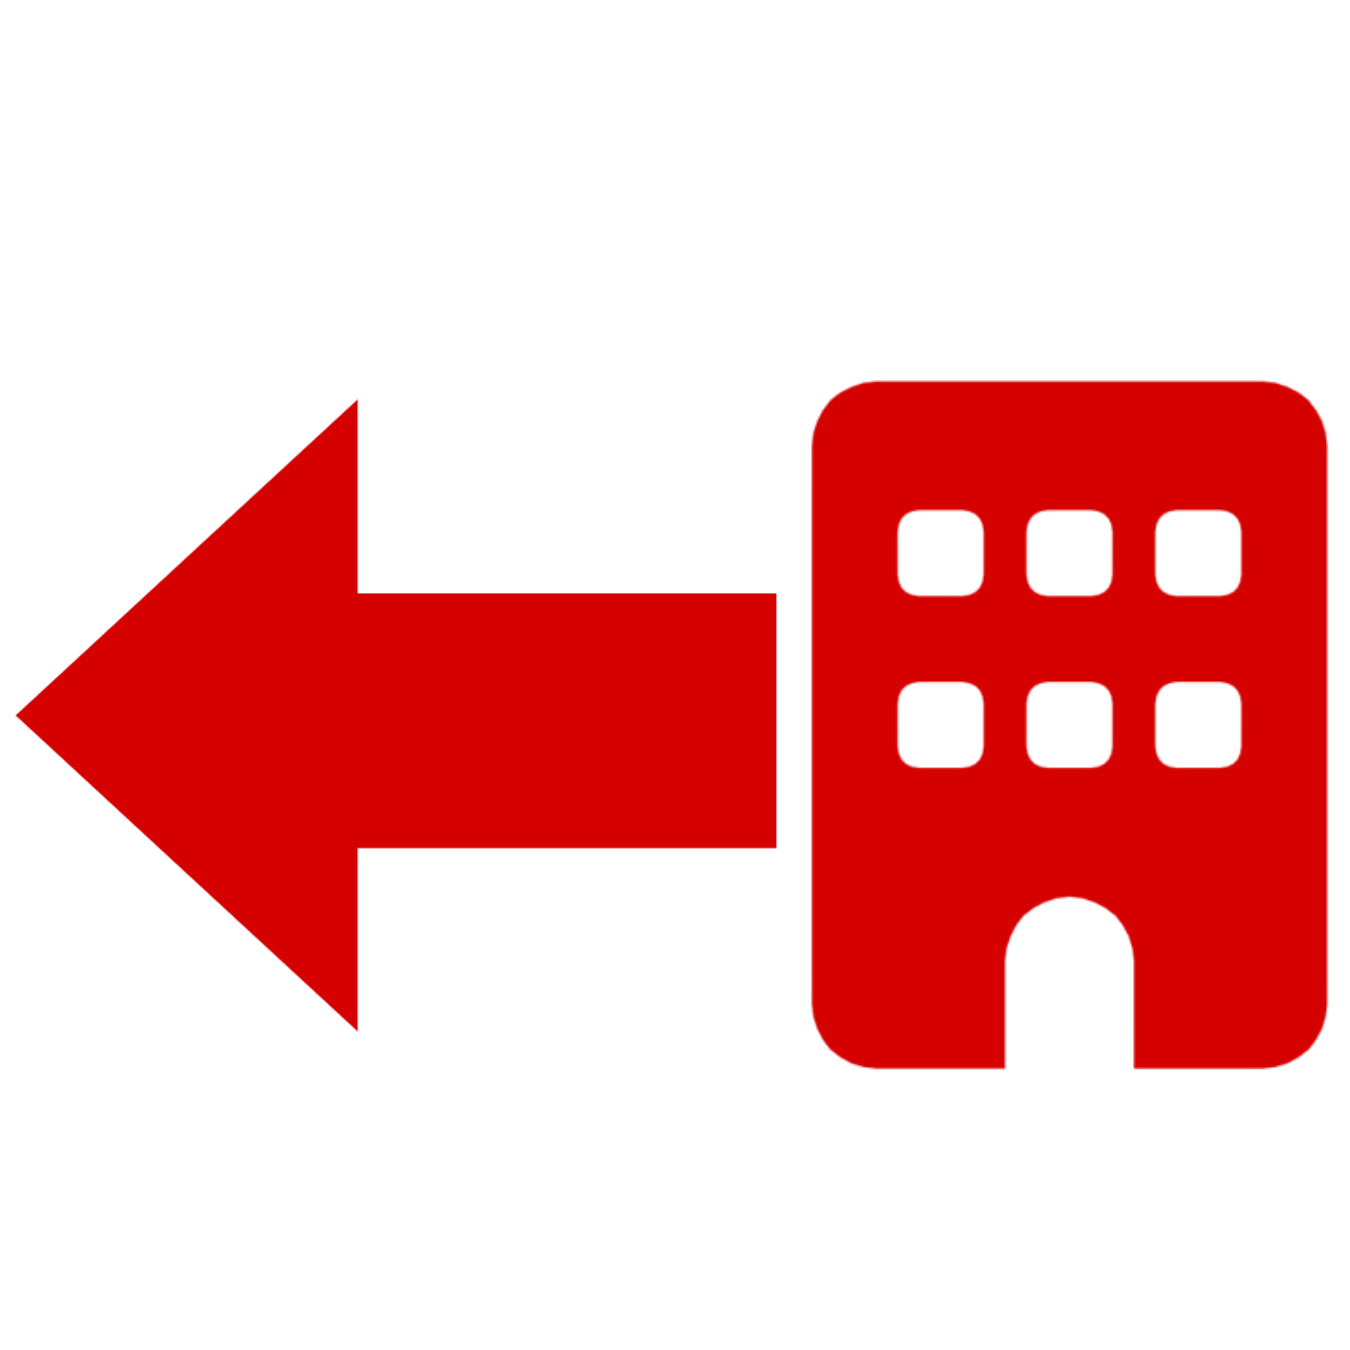
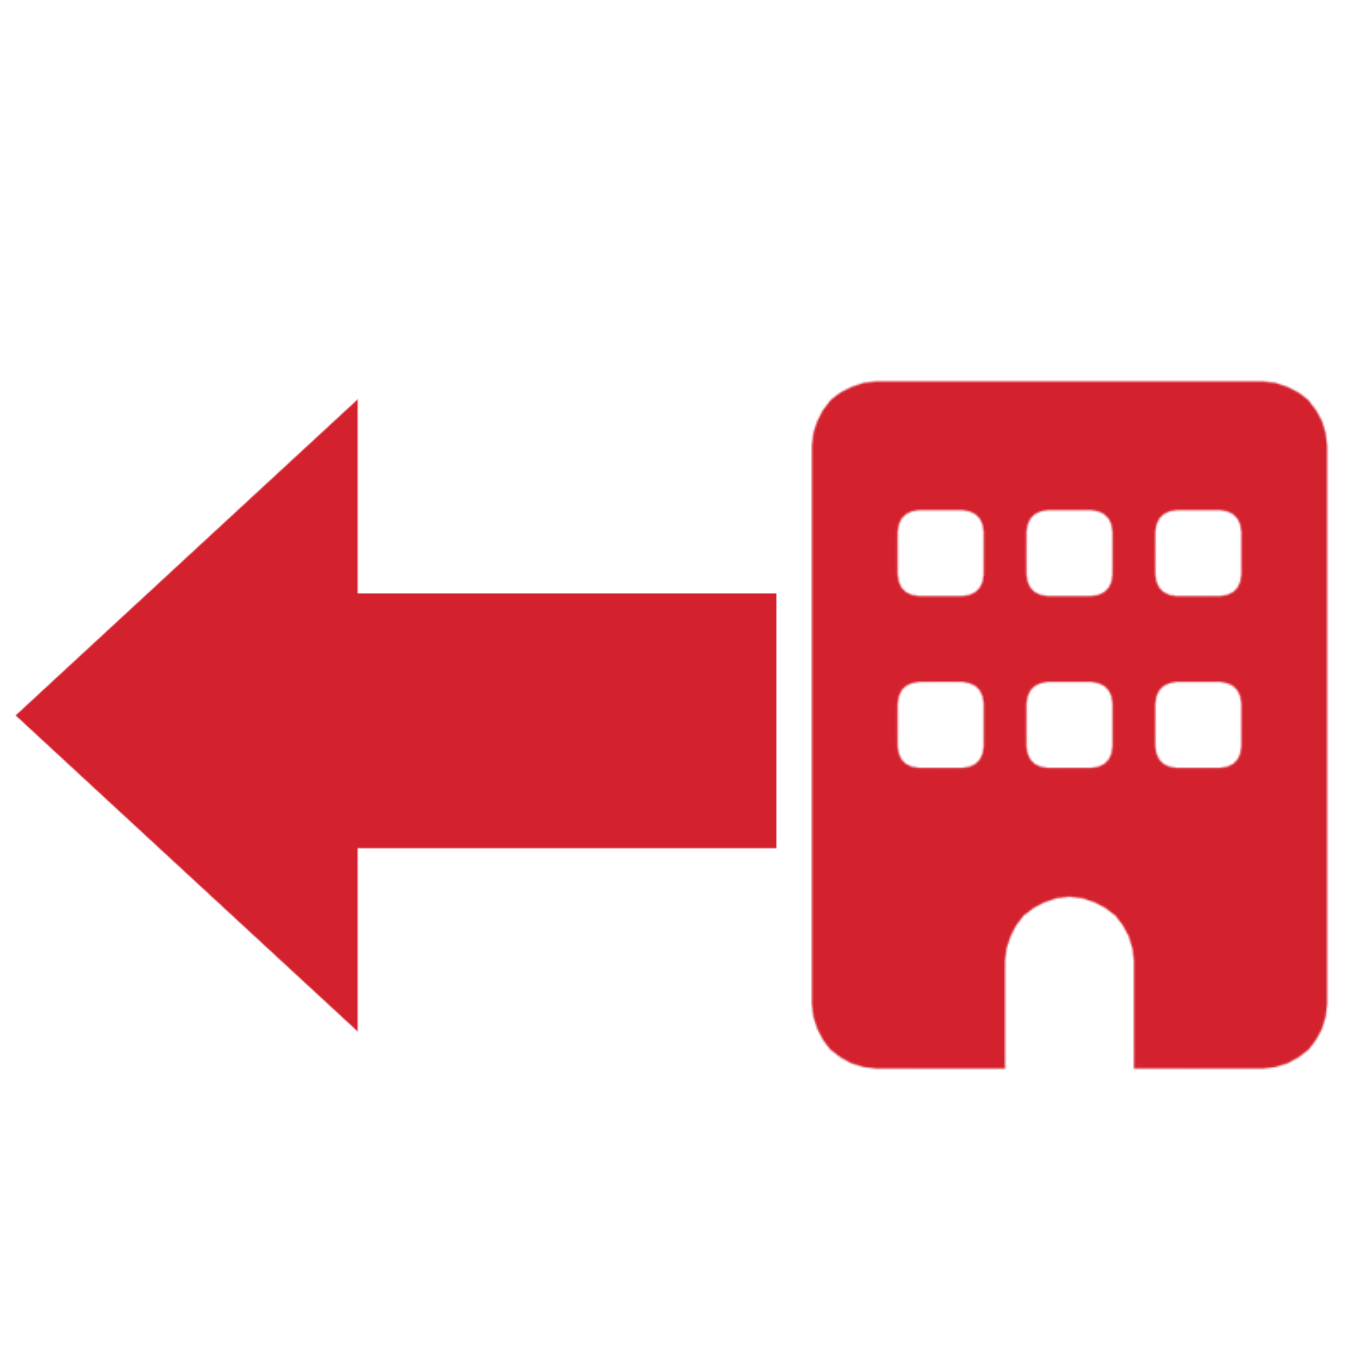
:lipstick: removed waste calander from schedule page #332

Changed region(s): [[0.0, 0.28, 0.9956, 0.8089]]

diff --git a/frontend/src/components/Wastecalendar.jsx b/frontend/src/components/Wastecalendar.jsx
@@ -3,6 +3,7 @@ import Cell from "@/components/table/Cell";
 import Outside from "/public/images/outside_building.png";
 import Inside from "/public/images/inside_building.png";
 import Image from "next/image";
+import WasteTag from "@/components/WasteTag";
 
 /**
  * A waste calander that will show a div for every day in "dates" that is filled
@@ -34,62 +35,9 @@ export default function WasteCalendar({ waste, dates }) {
               "flex flex-col grow shrink-0 bg-light-bg-1 p-1 rounded-lg items-center min-h-[50px] min-w-[30px]"
             }
           >
-            {wasteRest.map((entry, index) => {
-              console.log(entry);
-              let wasteState = 2;
-              if (entry.action === "Binnen") {
-                wasteState = 1;
-              }
-              let classname = "bg-waste-other text-light-bg-1";
-              let cut = false;
-              if (entry.waste_type.toUpperCase() === "PMD") {
-                classname = "bg-waste-PMD text-light-text";
-              } else if (entry.waste_type.toUpperCase() === "GLAS") {
-                classname = "bg-waste-glass text-light-text";
-              } else if (entry.waste_type.toUpperCase() === "PAPIER") {
-                classname = "bg-waste-paper text-light-bg-1";
-              } else if (entry.waste_type.toUpperCase() === "REST") {
-                classname = "bg-waste-rest text-light-bg-1";
-              } else if (entry.waste_type.toUpperCase() === "GFT") {
-                classname = "bg-waste-GFT text-light-bg-1";
-              } else {
-                cut = true;
-              }
-              return (
-                <ColoredTag
-                  key={index}
-                  className={`rounded-lg w-full text-center overflow-hidden ${classname}`}
-                >
-                  <div className={"flex flex-row space-x-1"}>
-                    <div
-                      className={
-                        "bg-light-bg-1 rounded-lg p-1 justify-center items-center"
-                      }
-                    >
-                      {wasteState === 1 && (
-                        <Image
-                          src={Inside}
-                          width={20}
-                          height={20}
-                          alt="inside"
-                        />
-                      )}
-                      {wasteState === 2 && (
-                        <Image
-                          src={Outside}
-                          width={20}
-                          height={20}
-                          alt="outside"
-                        />
-                      )}
-                    </div>
-                    <Cell cut={cut} maxWidth={"max-w-[30px]"}>
-                      <p className={classname}>{entry.waste_type}</p>
-                    </Cell>
-                  </div>
-                </ColoredTag>
-              );
-            })}
+            {wasteRest.map((entry, index) => (
+              <WasteTag entry={entry} key={index} />
+            ))}
           </div>
         );
       })}

diff --git a/frontend/src/pages/student/planning.jsx b/frontend/src/pages/student/planning.jsx
@@ -27,6 +27,9 @@ import WasteCalendar from "@/components/Wastecalendar";
 import MapView from "@/components/MapView";
 import { useRouter } from "next/router";
 import { urlToPK } from "@/utils/urlToPK";
+import Image from "next/image";
+import Cell from "@/components/table/Cell";
+import WasteTag from "@/components/WasteTag";
 
 export default function StudentPlanningPage() {
   const [name, setName] = useState("");
@@ -74,8 +77,8 @@ export default function StudentPlanningPage() {
             result["finished"] = false;
             result["waste"] = await WasteService.get({
               building: entry["building"],
-              startDate: moment(new Date()).startOf("isoWeek").toDate(),
-              endDate: moment(new Date()).endOf("isoWeek").toDate(),
+              startDate: moment(new Date()).startOf("day").toDate(),
+              endDate: moment(new Date()).endOf("day").toDate(),
             });
             return result;
           })
@@ -229,9 +232,15 @@ export default function StudentPlanningPage() {
                     <FontAwesomeIcon icon={faLocationDot} />
                     <p>{data["address"]}</p>
                   </div>
-                  <SecondaryCard>
-                    <WasteCalendar dates={dates} waste={data["waste"]} />
-                  </SecondaryCard>
+                  <div
+                    className={"flex flex-row overflow-x-auto w-full space-x-2"}
+                  >
+                    {data["waste"].map((entry, index) => (
+                      <div className={"shrink-0"} key={index}>
+                        <WasteTag entry={entry} />
+                      </div>
+                    ))}
+                  </div>
                 </SecondaryCard>
               );
             })}

diff --git a/frontend/src/components/WasteTag.jsx b/frontend/src/components/WasteTag.jsx
@@ -1,0 +1,49 @@
+import ColoredTag from "@/components/Tag";
+import Image from "next/image";
+import Cell from "@/components/table/Cell";
+import Outside from "/public/images/outside_building.png";
+import Inside from "/public/images/inside_building.png";
+
+export default function WasteTag({ entry }) {
+  let wasteState = 2;
+  if (entry.action === "Binnen") {
+    wasteState = 1;
+  }
+  let classname = "bg-waste-other text-light-bg-1";
+  let cut = false;
+  if (entry.waste_type.toUpperCase() === "PMD") {
+    classname = "bg-waste-PMD text-light-text";
+  } else if (entry.waste_type.toUpperCase() === "GLAS") {
+    classname = "bg-waste-glass text-light-text";
+  } else if (entry.waste_type.toUpperCase() === "PAPIER") {
+    classname = "bg-waste-paper text-light-bg-1";
+  } else if (entry.waste_type.toUpperCase() === "REST") {
+    classname = "bg-waste-rest text-light-bg-1";
+  } else if (entry.waste_type.toUpperCase() === "GFT") {
+    classname = "bg-waste-GFT text-light-bg-1";
+  } else {
+    cut = true;
+  }
+
+  return (
+    <ColoredTag
+      className={`rounded-lg w-full text-center overflow-hidden ${classname}`}
+    >
+      <div className={"flex flex-row space-x-1"}>
+        <div
+          className={"bg-light-bg-1 rounded-lg p-1 justify-center items-center"}
+        >
+          {wasteState === 1 && (
+            <Image src={Inside} width={20} height={20} alt="inside" />
+          )}
+          {wasteState === 2 && (
+            <Image src={Outside} width={20} height={20} alt="outside" />
+          )}
+        </div>
+        <Cell cut={cut} maxWidth={"max-w-[30px]"}>
+          <p className={classname}>{entry.waste_type}</p>
+        </Cell>
+      </div>
+    </ColoredTag>
+  );
+}

diff --git a/frontend/tailwind.config.js b/frontend/tailwind.config.js
@@ -50,7 +50,7 @@ module.exports = {
         2: "#FFDCCC",
       },
       bad: {
-        1: "#CF222E",
+        1: "#cf222e",
         2: "#FFD4DF",
       },
       tags: {
